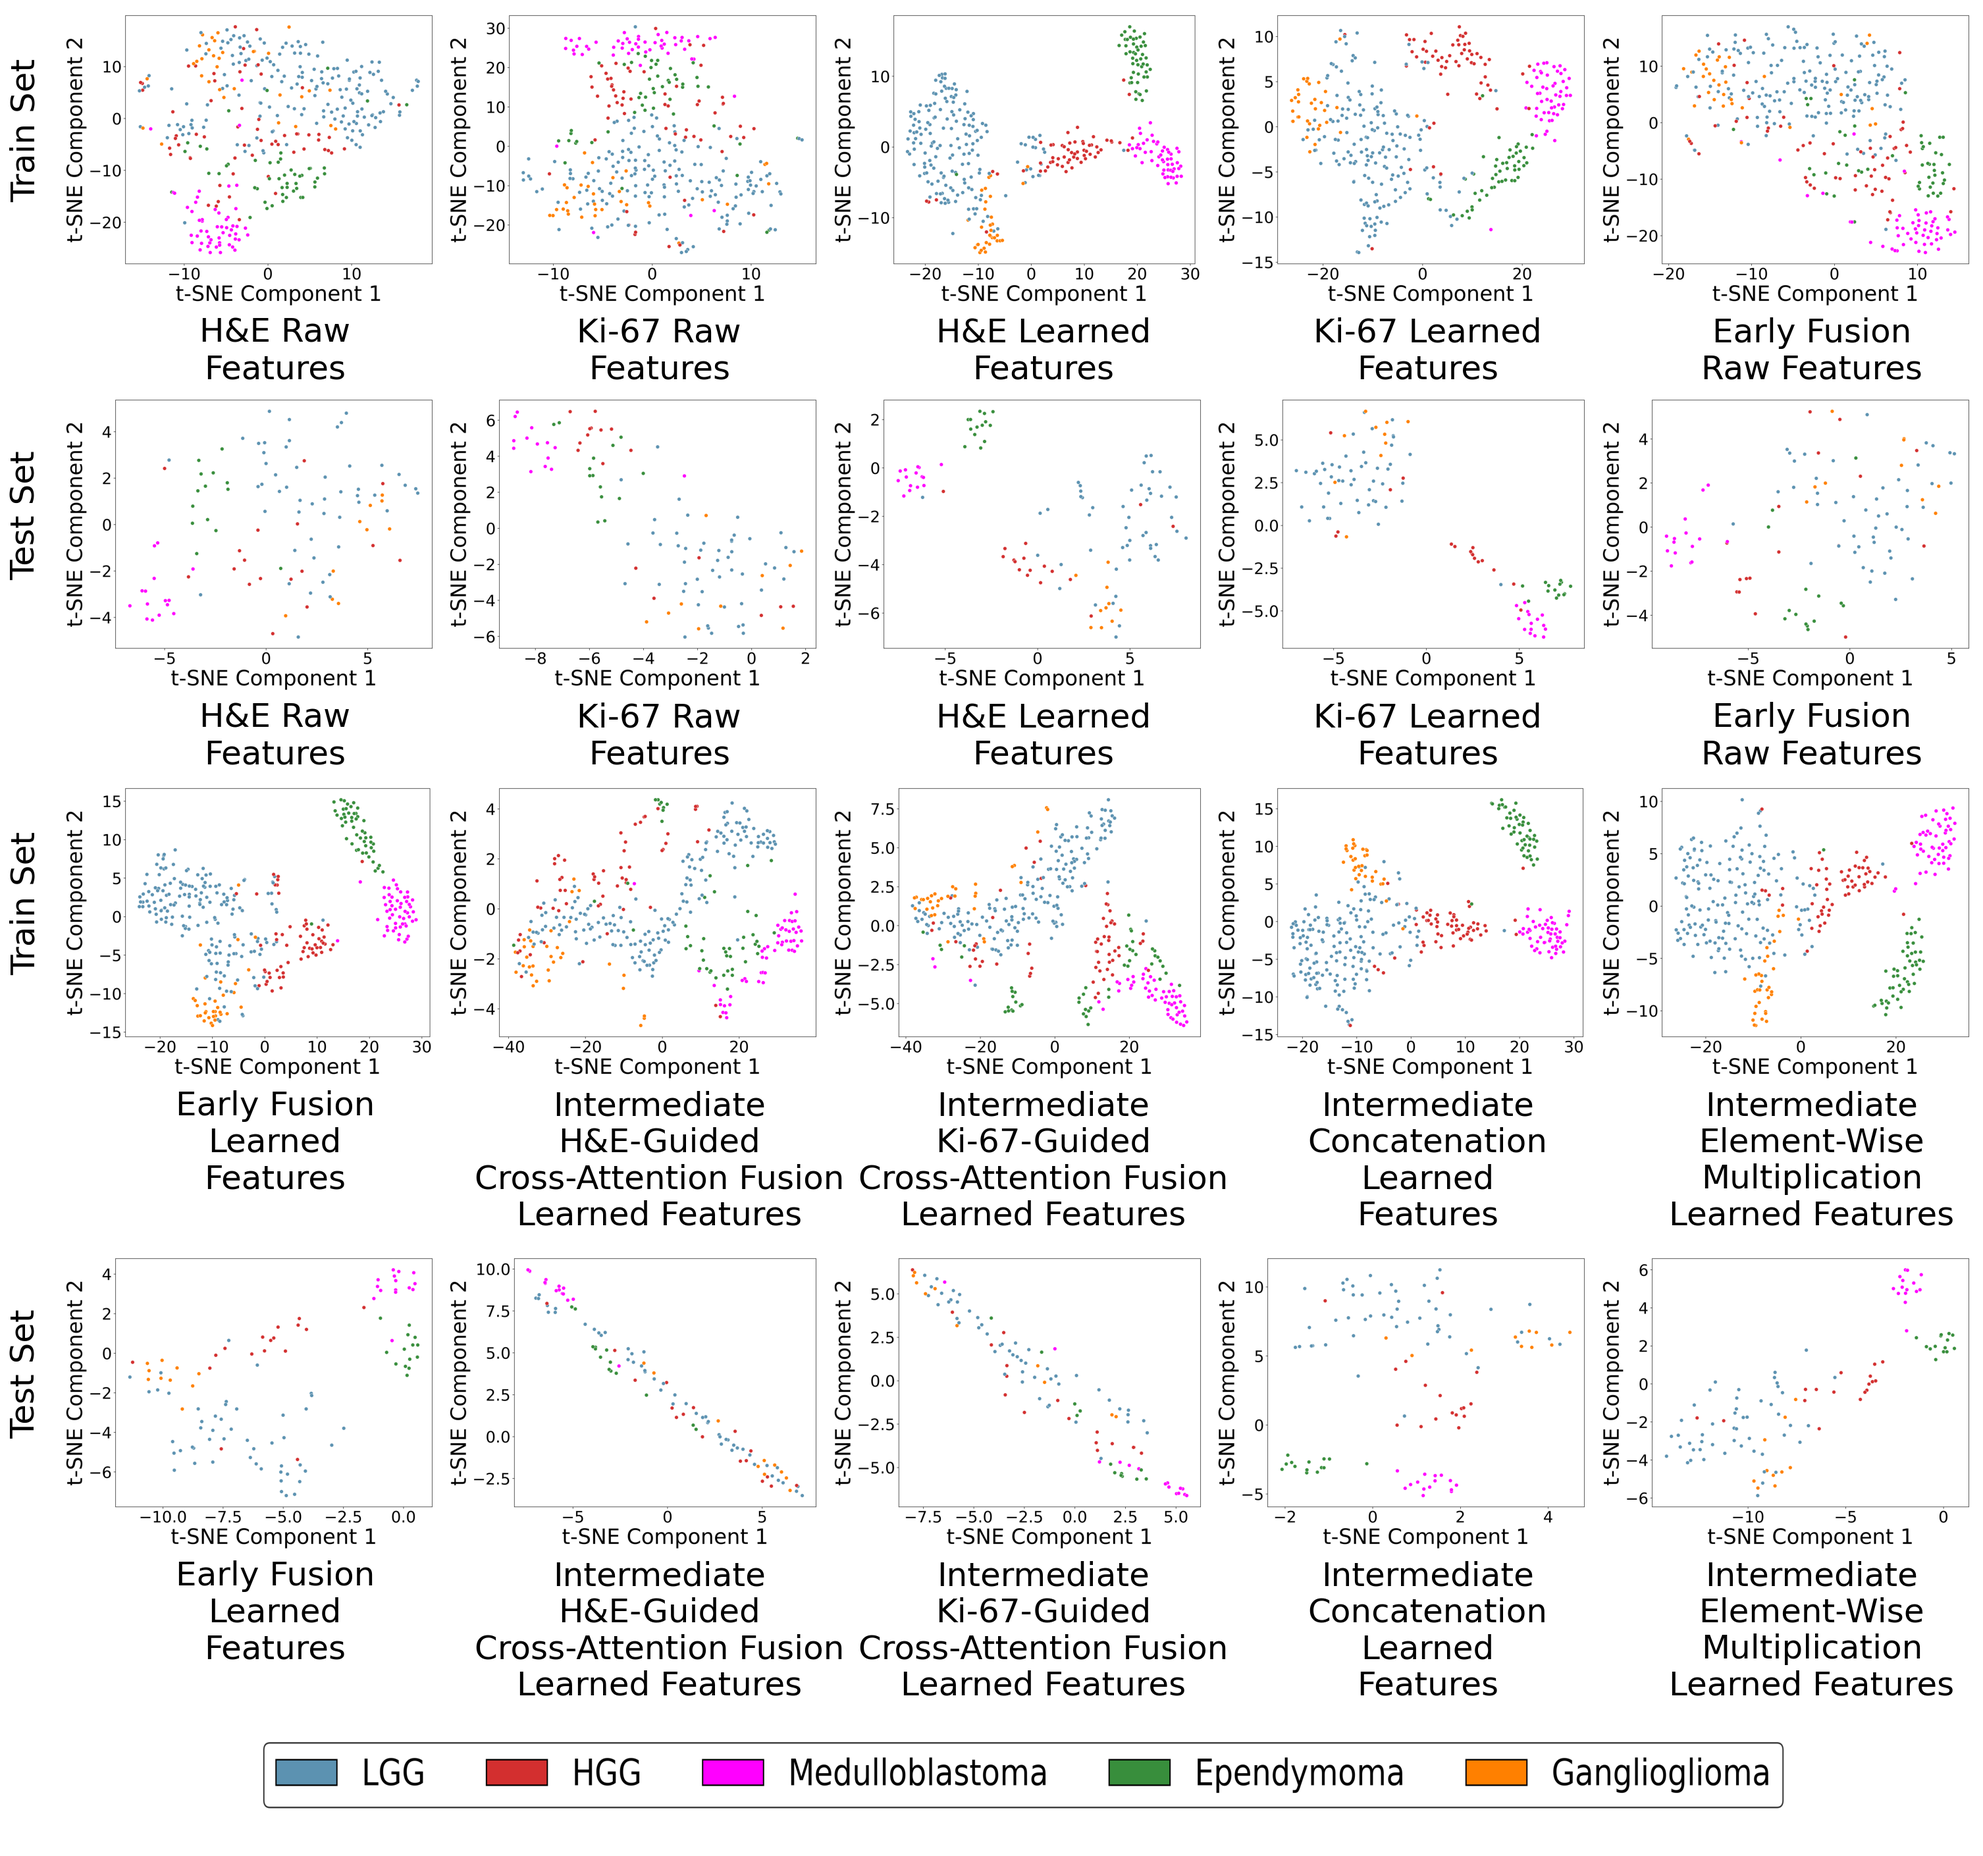
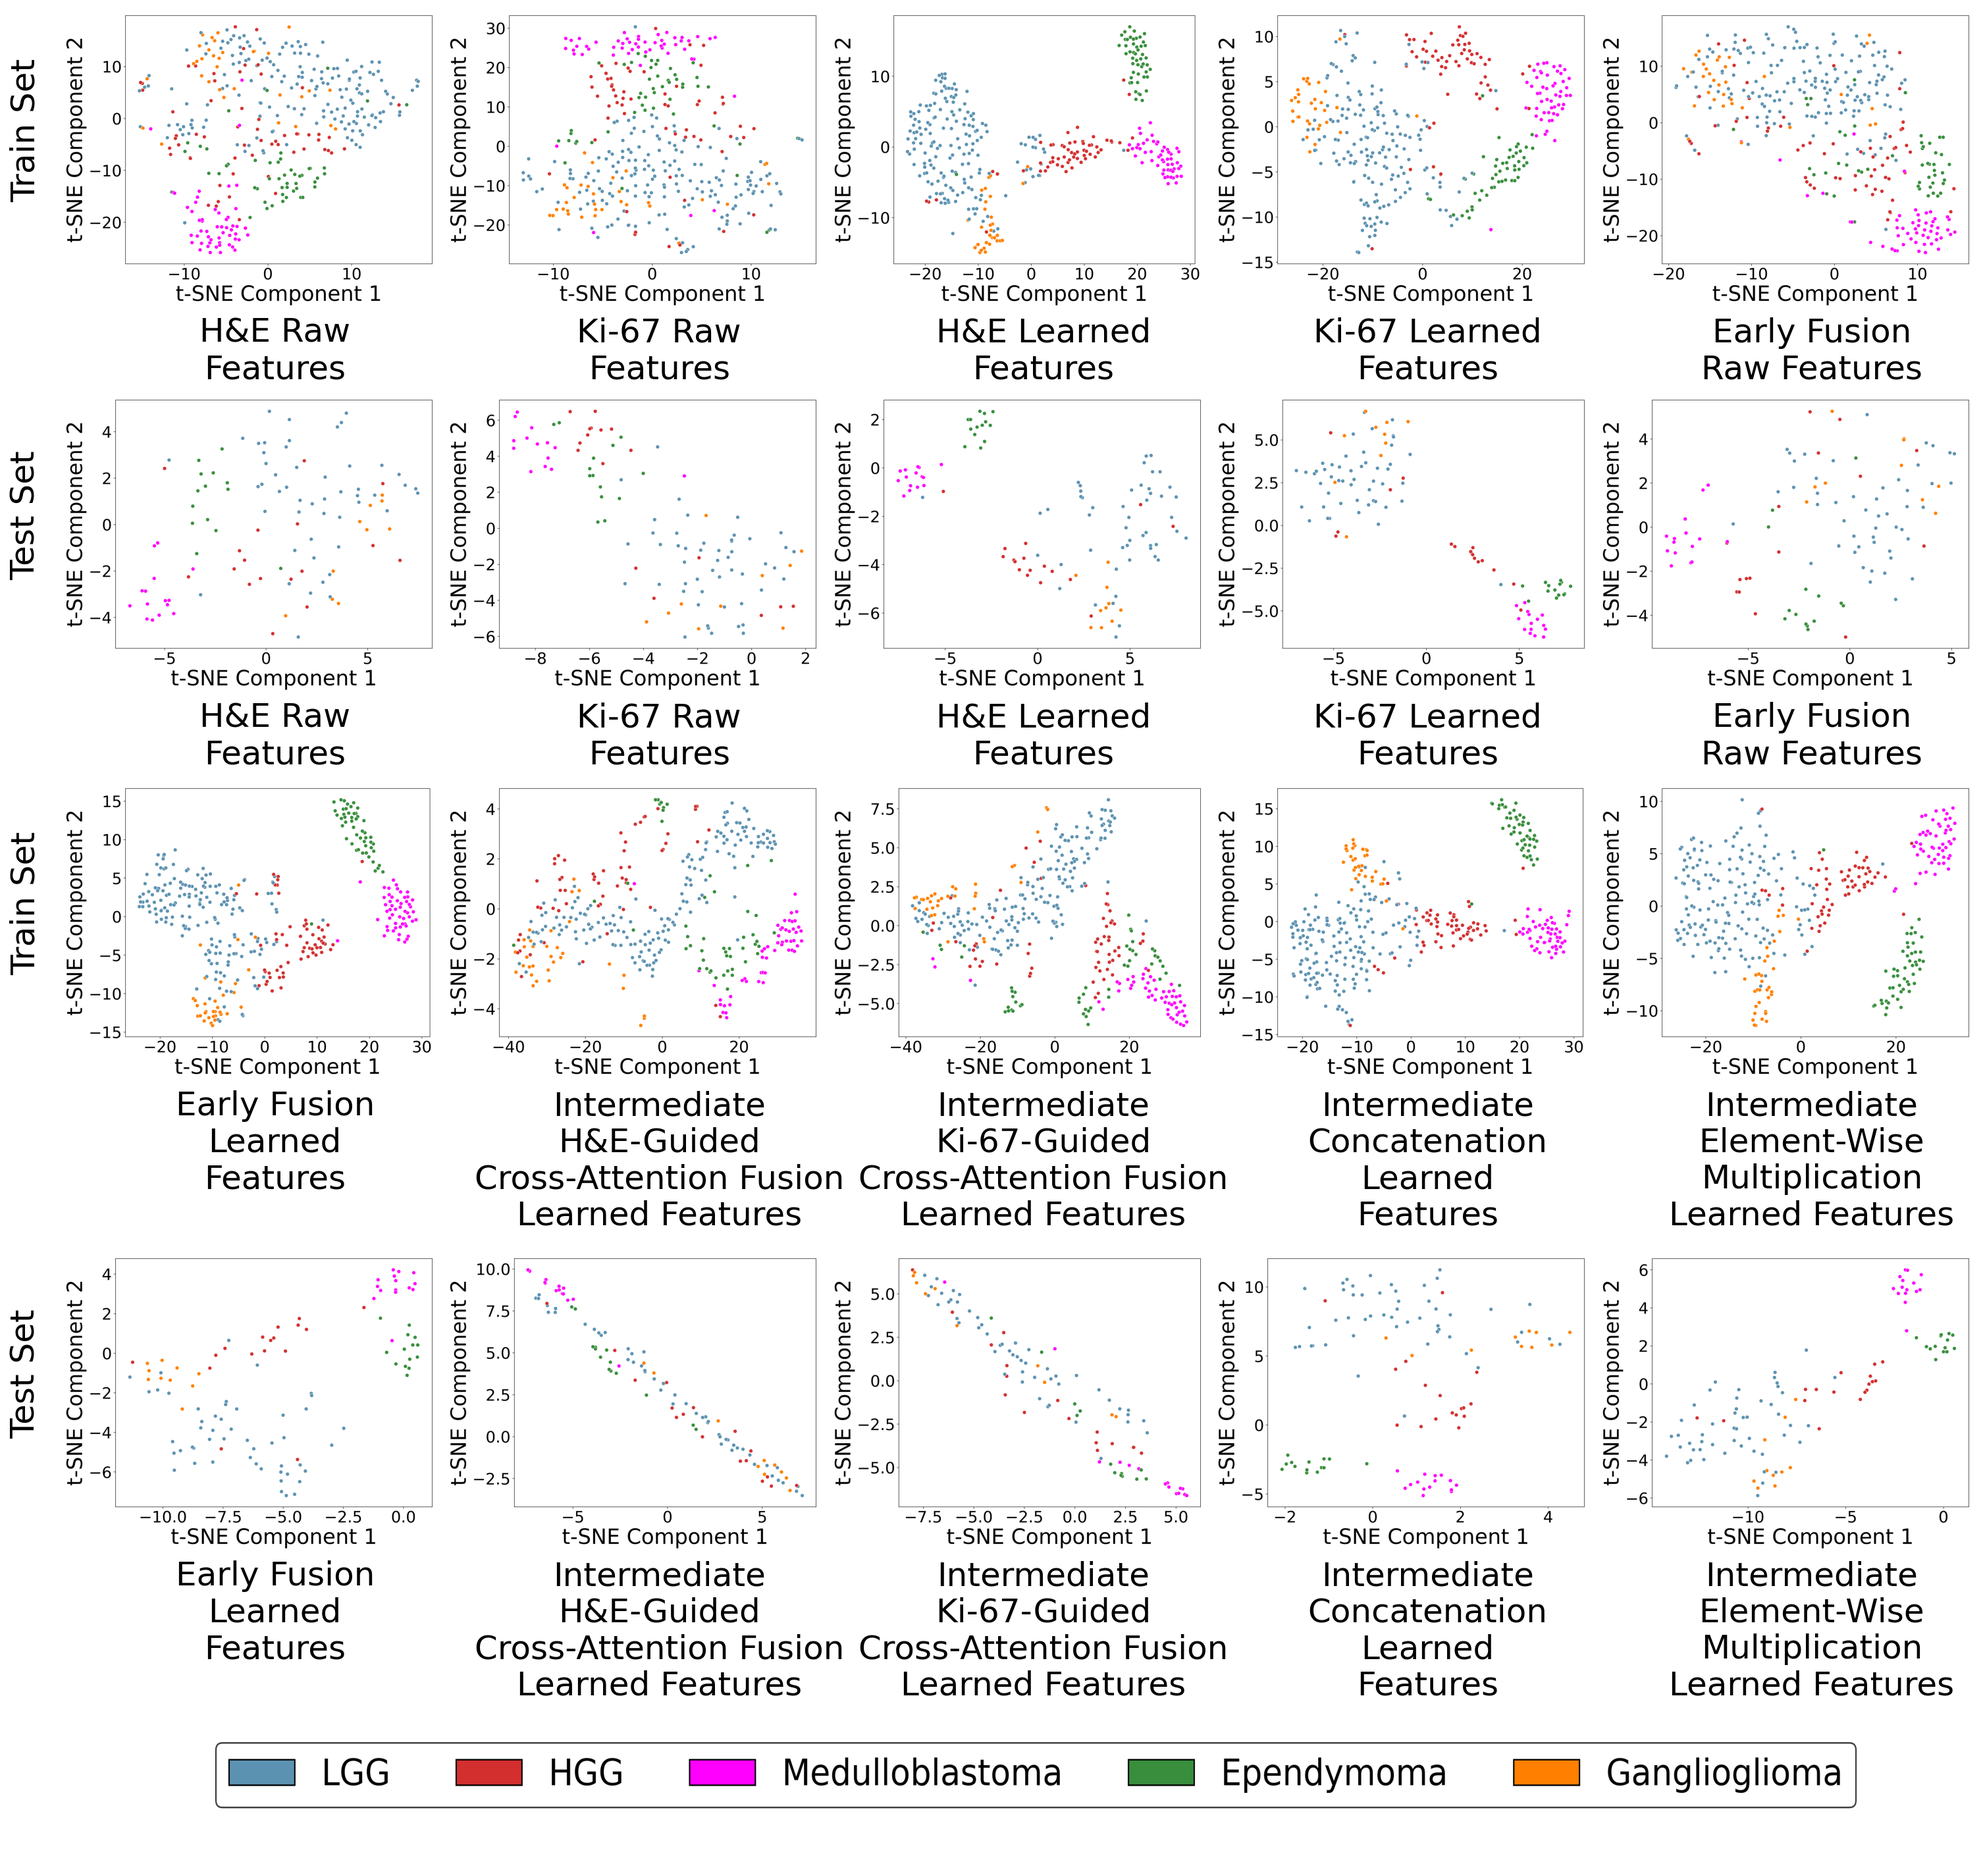
nothing, just to clean up git control

Changed region(s): [[0.5618, 0.9365, 0.9363, 0.9677], [0.0936, 0.9365, 0.3121, 0.9677], [0.3433, 0.9365, 0.5305, 0.9677]]

diff --git a/data_utilities/tSNE_plots/aggregate_tSNE_plots.py b/data_utilities/tSNE_plots/aggregate_tSNE_plots.py
@@ -160,9 +160,9 @@ for ax, row_label in zip(row_first_axes, row_labels):
 
 # Legend box — centred at the bottom
 # Adjust these to reposition/resize the legend b60ox:
-legend_left_5_class   = 0.20   # horizontal position (0=left edge, 1=right edge)
+legend_left_5_class   = 0.18   # horizontal position (0=left edge, 1=right edge)
 legend_bottom_5_class = -0.20  # vertical position (negative = below figure)
-legend_width_5_class  = 0.63   # width in figure fraction
+legend_width_5_class  = 0.68   # width in figure fraction
 legend_height_5_class = 0.09  # height in figure fraction
 ax_legend = fig.add_axes([legend_left_5_class, legend_bottom_5_class,
                           legend_width_5_class, legend_height_5_class])
